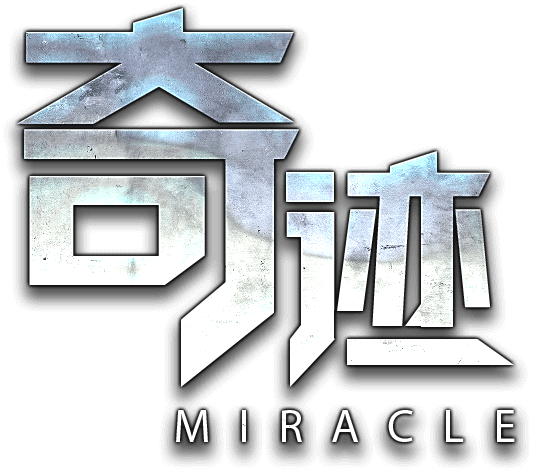
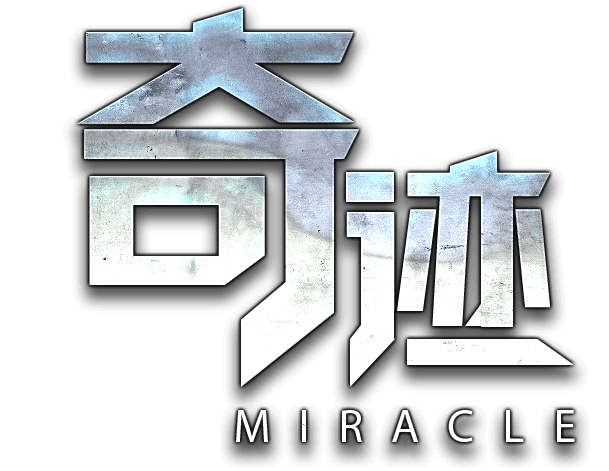
aaa

diff --git a/Miracle/bin-debug/Game/ExtractUnitTs.js b/Miracle/bin-debug/Game/ExtractUnitTs.js
@@ -69,8 +69,12 @@ var ExtractUnitTs = (function (_super) {
                 var obj = {
                     extractNum: n[0].toString(),
                     extractCoin1: "0",
-                    per: 0
+                    per: 0,
+                    car: "car" + (_this.sourceArr.length + 1) + "_png"
                 };
+                if (_this.sourceArr.length > 1) {
+                    obj.car = "car1_png";
+                }
                 if (_this.nGainId != 1) {
                     var down = _this.nRollIn - _this.nGainId;
                     down = down <= 0 ? 1 : down;
@@ -104,7 +108,7 @@ var ExtractUnitTs = (function (_super) {
             var myCollection = new eui.ArrayCollection(_this.sourceArr);
             var dataGroup = new eui.DataGroup();
             dataGroup.dataProvider = myCollection;
-            dataGroup.itemRendererSkinName = "<?xml version=\"1.0\" encoding=\"utf-8\"?>\n                <e:Skin class=\"ExtractUnit\" width=\"970\" height=\"280\" xmlns:e=\"http://ns.egret.com/eui\" xmlns:w=\"http://ns.egret.com/wing\" xmlns:tween=\"egret.tween.*\">\n                    <w:Declarations>\n                    </w:Declarations>\n                    <e:Image scaleX=\"1\" scaleY=\"1\" verticalCenter=\"0\" source=\"car_bg_png\" horizontalCenter=\"0\"/>\n                    <e:BitmapLabel scaleX=\"1\" scaleY=\"1\" verticalCenter=\"-47\" anchorOffsetX=\"0\" width=\"223.57\" textAlign=\"left\" horizontalCenter=\"-126\" anchorOffsetY=\"0\" height=\"86.06\" font=\"game_modal_num_100_fnt\" text=\"{data.extractNum}\"/>\n                    <e:Image source=\"statistics_text_syxh_png\" x=\"50.78\" y=\"57.81\"/>\n                    <e:Image x=\"532.92\" y=\"57.81\" source=\"statistics_text_syje_png\"/>\n                    <e:BitmapLabel scaleX=\"1\" scaleY=\"1\" anchorOffsetX=\"0\" width=\"249.33\" textAlign=\"left\" anchorOffsetY=\"0\" height=\"89.09\" x=\"691.54\" y=\"49.71\" font=\"game_modal_num_100_fnt\" text=\"{data.extractCoin1}\"/>\n                    <e:Group width=\"903.99\" height=\"56\" y=\"190.32\" anchorOffsetX=\"0\" anchorOffsetY=\"0\" horizontalCenter=\"0\" maxWidth=\"903.99\" scrollEnabled=\"true\">\n                        <e:Image id=\"carLine\" source=\"car_line_png\" verticalCenter=\"0\" left=\"0\"/>\n                        <e:Group id=\"carGroup\" width=\"185.33\" height=\"53.34\" x=\"126\" y=\"1.33\" anchorOffsetY=\"0\" anchorOffsetX=\"0\">\n                            <e:Image source=\"car_png\" verticalCenter=\"-7.5\" y=\"-10.330000000000013\" scaleX=\"1\" scaleY=\"1\" horizontalCenter=\"0\"/>\n                            <e:Image id=\"wheelL\" source=\"car_front_wheel_png\" x=\"147.55\" y=\"20.2\" anchorOffsetX=\"14\" anchorOffsetY=\"14\"/>\n                            <e:Image id=\"wheelR\" source=\"car_rear_wheel_png\" x=\"32.72\" y=\"19.28\" anchorOffsetX=\"16\" anchorOffsetY=\"16\"/>\n                        </e:Group>\n                    </e:Group>\n                </e:Skin>";
+            dataGroup.itemRendererSkinName = "<?xml version=\"1.0\" encoding=\"utf-8\"?>\n                <e:Skin class=\"ExtractUnit\" width=\"970\" height=\"280\" xmlns:e=\"http://ns.egret.com/eui\" xmlns:w=\"http://ns.egret.com/wing\" xmlns:tween=\"egret.tween.*\">\n                    <w:Declarations>\n                    </w:Declarations>\n                    <e:Image scaleX=\"1\" scaleY=\"1\" verticalCenter=\"0\" source=\"car_bg_png\" horizontalCenter=\"0\"/>\n                    <e:BitmapLabel scaleX=\"1\" scaleY=\"1\" verticalCenter=\"-47\" anchorOffsetX=\"0\" width=\"223.57\" textAlign=\"left\" horizontalCenter=\"-126\" anchorOffsetY=\"0\" height=\"86.06\" font=\"game_modal_num_100_fnt\" text=\"{data.extractNum}\"/>\n                    <e:Image source=\"statistics_text_syxh_png\" x=\"50.78\" y=\"57.81\"/>\n                    <e:Image x=\"532.92\" y=\"57.81\" source=\"statistics_text_syje_png\"/>\n                    <e:BitmapLabel scaleX=\"1\" scaleY=\"1\" anchorOffsetX=\"0\" width=\"249.33\" textAlign=\"left\" anchorOffsetY=\"0\" height=\"89.09\" x=\"691.54\" y=\"49.71\" font=\"game_modal_num_100_fnt\" text=\"{data.extractCoin1}\"/>\n                    <e:Group width=\"903.99\" height=\"56\" y=\"190.32\" anchorOffsetX=\"0\" anchorOffsetY=\"0\" horizontalCenter=\"0\" maxWidth=\"903.99\" scrollEnabled=\"true\">\n                        <e:Image id=\"carLine\" source=\"car_line_png\" verticalCenter=\"0\" left=\"0\"/>\n                        <e:Group id=\"carGroup\" width=\"185.33\" height=\"53.34\" x=\"{data.per}\" y=\"1.33\" anchorOffsetY=\"0\" anchorOffsetX=\"0\">\n                            <e:Image verticalCenter=\"-7.5\" y=\"-10.330000000000013\" scaleX=\"1\" scaleY=\"1\" horizontalCenter=\"0\" source=\"{data.car}\"/>\n                            <e:Image id=\"wheelL\" source=\"car_front_wheel_png\" x=\"147.55\" y=\"20.2\" anchorOffsetX=\"14\" anchorOffsetY=\"14\" visible=\"false\"/>\n                            <e:Image id=\"wheelR\" source=\"car_rear_wheel_png\" x=\"32.72\" y=\"19.28\" anchorOffsetX=\"16\" anchorOffsetY=\"16\" visible=\"false\"/>\n                        </e:Group>\n                    </e:Group>\n                </e:Skin>";
             // dataGroup.itemRendererSkinName = "resource/eui_modules/Game/ExtractUnit.exml";
             _this.$children.length = 0;
             _this.addChild(dataGroup);

diff --git a/Miracle/bin-debug/Main.js b/Miracle/bin-debug/Main.js
@@ -105,6 +105,7 @@ var Main = (function (_super) {
                     case 1:
                         _a.sent();
                         this.createGameScene();
+                        // return
                         getNetWork().then(function () {
                             getJson().then(function (data) {
                                 _this.stage.removeChild(_this.stage.$children[1]);

diff --git a/Miracle/src/Main.ts b/Miracle/src/Main.ts
@@ -60,6 +60,7 @@ class Main extends eui.UILayer {
     private async runGame() {
         await this.loadResource();
         this.createGameScene();
+        // return
         getNetWork().then( () => {
             getJson().then((data)=>{
                 this.stage.removeChild(this.stage.$children[1]);

diff --git a/Miracle/bin-debug/Loading.js b/Miracle/bin-debug/Loading.js
@@ -27,7 +27,7 @@ var Loading = (function (_super) {
         this.addChild(loadBg);
         var logo = this.createBitmapByName(url);
         logo.x = 450;
-        logo.y = 270;
+        logo.y = 160;
         this.addChild(logo);
         var content = new egret.Sprite();
         content.x = 50;

diff --git a/Miracle/src/Commen.ts b/Miracle/src/Commen.ts
@@ -81,7 +81,7 @@ function getJson() {
                 'Content-Type': 'application/json'
             })
         }).then((response) => {
-            return response.json();
+            return response .json();
         }, (error) => {
             reject(error);
         }).then((json) => {

diff --git a/Miracle/src/Loading.ts b/Miracle/src/Loading.ts
@@ -21,7 +21,7 @@ class Loading extends egret.Sprite implements RES.PromiseTaskReporter {
 
         let logo = this.createBitmapByName(url);
         logo.x = 450;
-        logo.y = 270;
+        logo.y = 160;
         this.addChild(logo);
 
         let content = new egret.Sprite();
